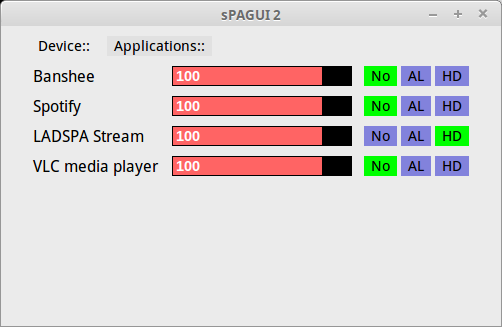
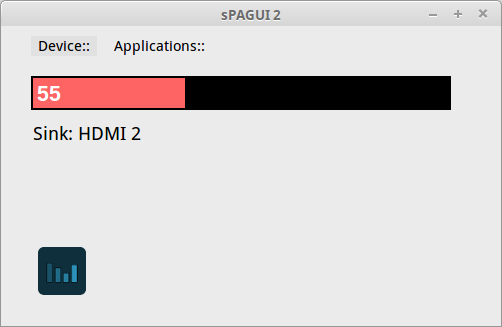
fix duplicate screenshots

Changed region(s): [[0.0598, 0.1835, 0.9562, 0.5505], [0.0598, 0.7339, 0.1793, 0.9174]]

diff --git a/sPAGUI.py b/sPAGUI.py
@@ -500,7 +500,7 @@ class GUI_handler:
         self.eq_picture = return_picture('load/eqpic.png')
         self.eq_picture_hov = return_picture('load/eqpic_hov.png')
         self.bg_color = window_bgcol
-        self.bg_color = '#EBEBEB'
+##        self.bg_color = '#EBEBEB'
         self.label_color = '#E1E1E1'
         self.volcol = (vol_red,vol_blue)
         self.muted_volcol = (blgr,blgr2)
@@ -521,14 +521,14 @@ class GUI_handler:
         self.frame2 = Frame(self.back_frame, width=X_root, height=20,bg=self.bg_color)
         self.frame2.pack_propagate(0)
         self.frame2.pack(padx=30, pady=10)
-
+##self.label_color
         # Device:: / App:: buttons
         self.device_btn = msg_binder(self.frame2, text="Device::", font=('Droid sans',11,'normal'), width='+70',
-                        fg='black', bg_hov='#B4B4F5', bg=self.label_color, func='func', command=self.device_tab)
+                        fg='black', bg_hov='#B4B4F5', bg=self.bg_color, func='func', command=self.device_tab)
         self.device_btn.pack(side=LEFT)
-        self.device_btn = msg_binder(self.frame2,text="Applications::",font=('Droid sans',11,'normal'),width='+120',
-                        fg='black', bg_hov='#B4B4F5', bg=self.label_color, func='func', command=self.app_tab)
-        self.device_btn.pack(side=LEFT,padx=10)
+        self.app_btn = msg_binder(self.frame2,text="Applications::",font=('Droid sans',11,'normal'),width='+120',
+                        fg='black', bg_hov='#B4B4F5', bg=self.bg_color, func='func', command=self.app_tab)
+        self.app_btn.pack(side=LEFT,padx=10)
         
         root.config(bg=self.bg_color)
         self.frame1 = Frame(root)
@@ -545,9 +545,12 @@ class GUI_handler:
         self.frame1 = Frame(self.back_frame, width=X_root, height=Y_root,bg=self.bg_color)
         self.frame1.pack_propagate(0)
         self.frame1.pack()
+        self.timer = 0
         
     def device_tab(self):
         self.active_tab = 'device'
+        self.device_btn.configure(bg=self.label_color)
+        self.app_btn.configure(bg=self.bg_color)
         self.reset_frame1()
         self.volume_canva = Canvas(self.frame1, width=150*500/178.571, height=300/10+4,
                                    bg='black', bd=0, highlightthickness=0, relief= SUNKEN)
@@ -585,6 +588,8 @@ class GUI_handler:
 
     def app_tab(self):
         global app_handler
+        self.device_btn.configure(bg=self.bg_color)
+        self.app_btn.configure(bg=self.label_color)
         self.active_tab = 'app'
         self.reset_frame1()
         self.app_list = []
